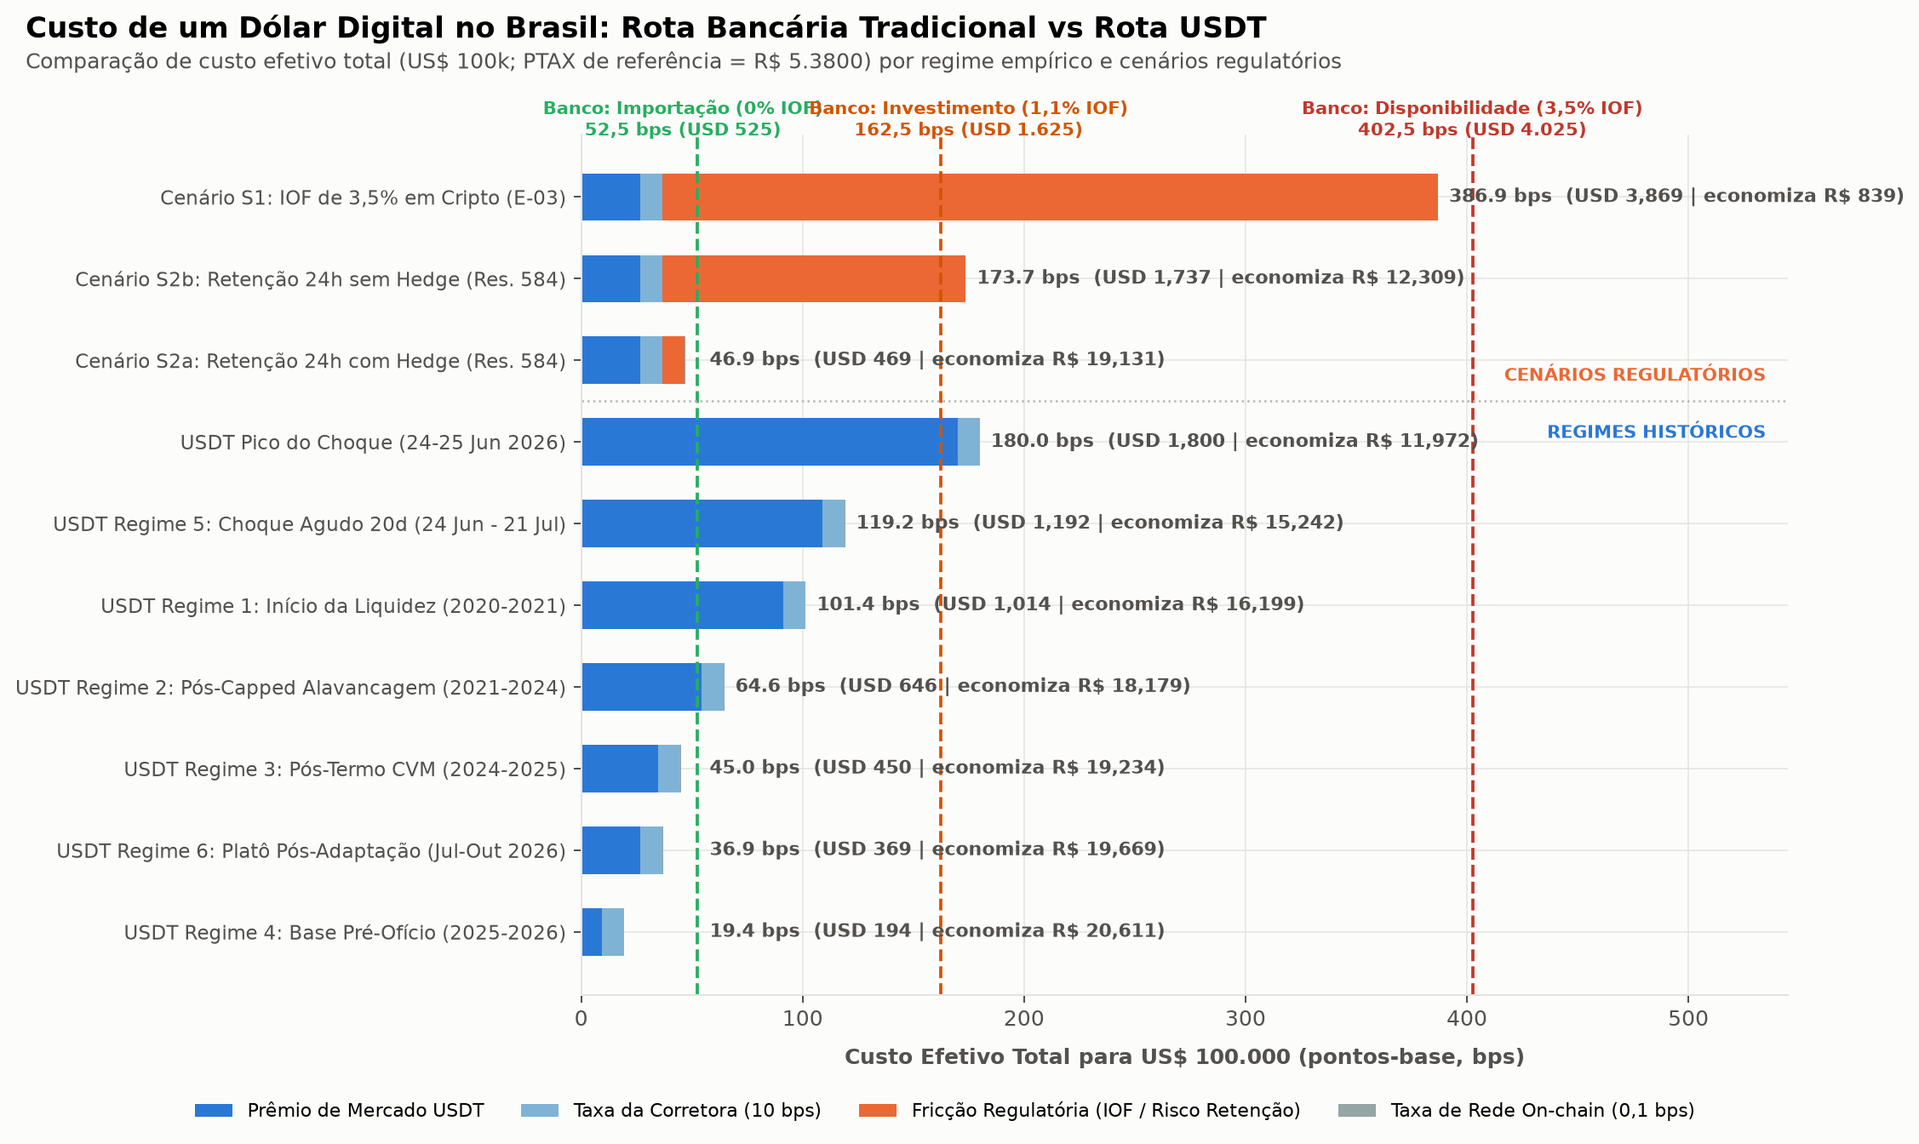
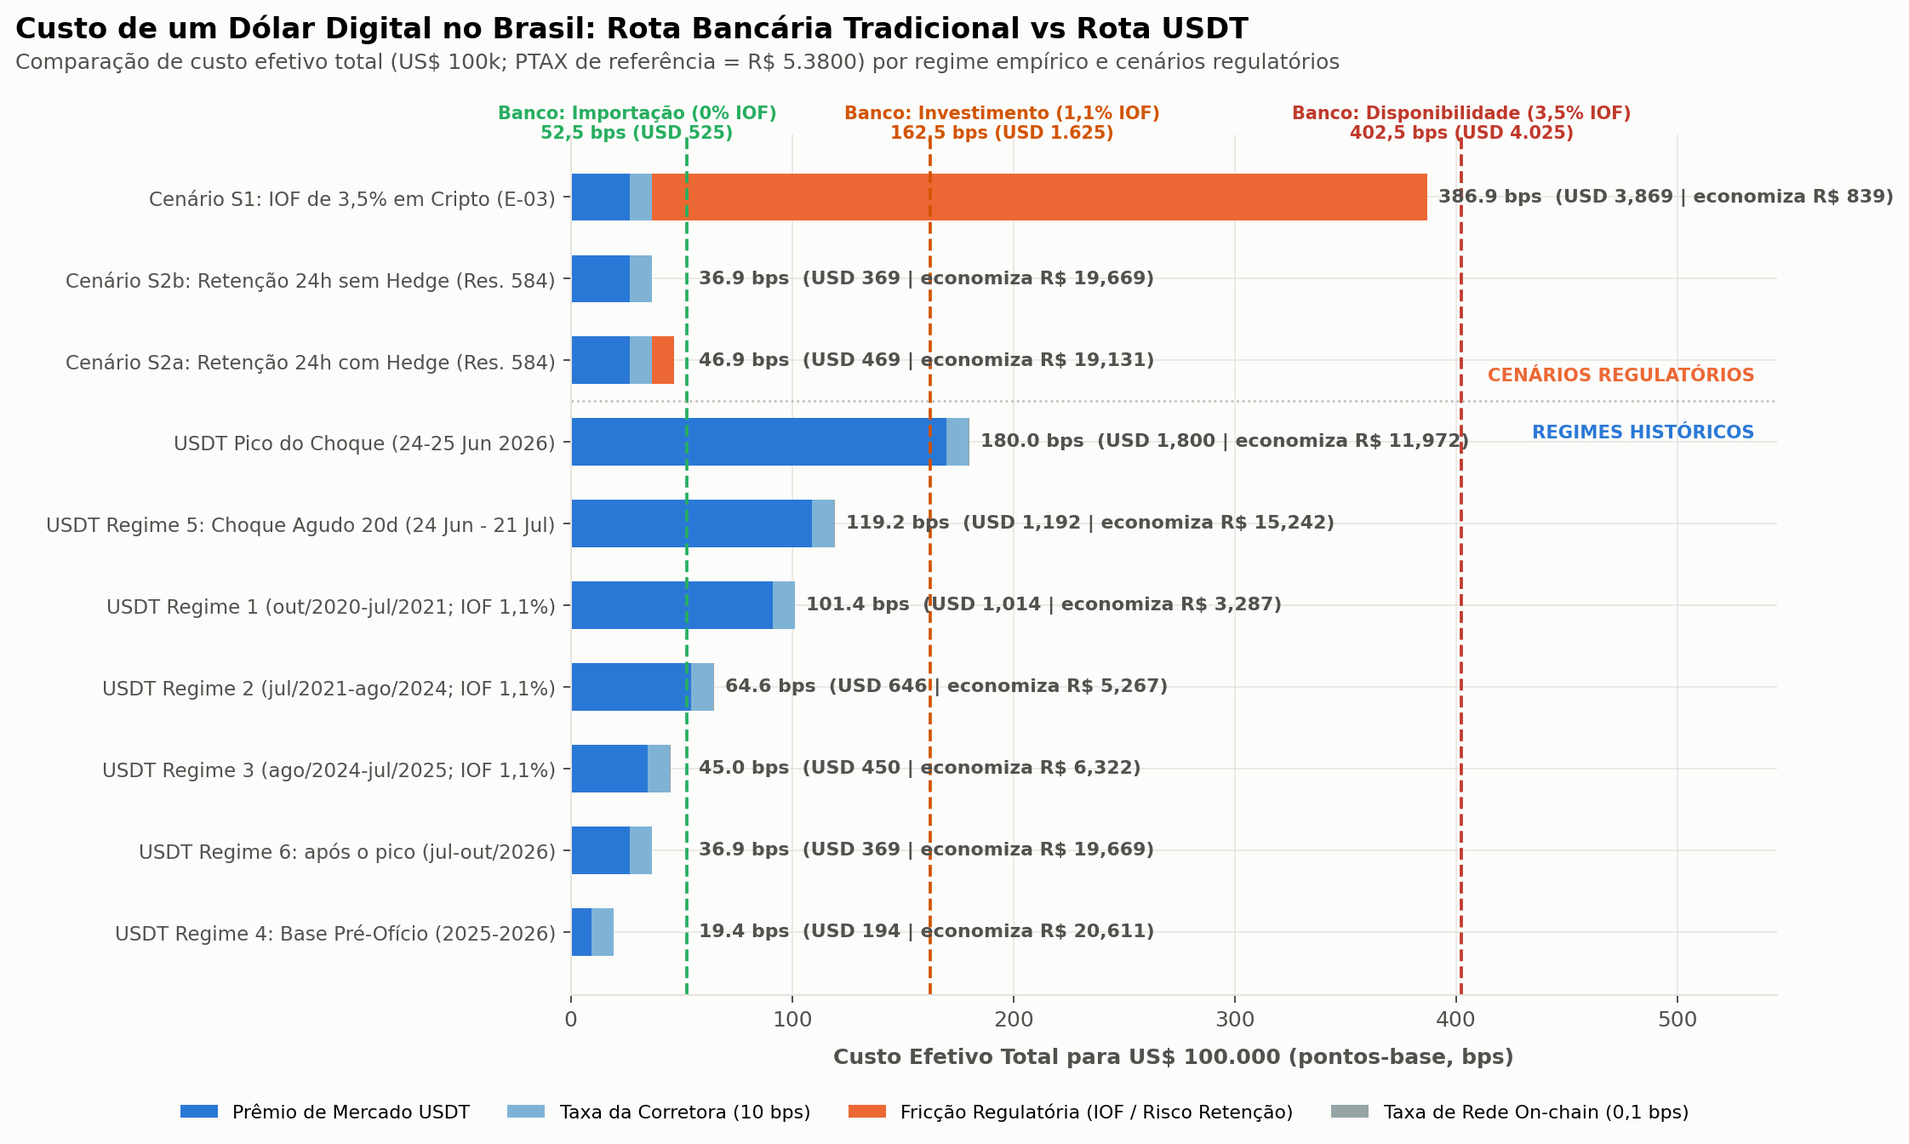
P3-01: review fixes (IOF in force by period, cost of the notice R$5,052/US$100k as headline, risk not a cost, assumptions marked); framing left for the team

diff --git a/scripts/p3_01_costs.py b/scripts/p3_01_costs.py
@@ -75,7 +75,7 @@ if (TAB / "P2-05_venues_daily.csv").exists():
 
 # 2. Build Route Comparison Table
 # Traditional Bank Benchmarks
-BANK_SPREAD = 50.0      # Corporate FX spread: 50.0 bps (median institutional from BCB Ranking VET, R-01)
+BANK_SPREAD = 50.0      # ASSUMPTION: corporate FX spread 50 bps. Not computed: the VET data (R-01) are not downloaded
 WIRE_FEE_BPS = 2.5      # SWIFT Outbound Wire: US$ 25 flat on US$ 100k = 2.5 bps
 
 # Binance VIP0 fees: 10 bps trading fee; TRC20/TON withdrawal 1 USDT = 0.1 bps on US$ 100k
@@ -89,7 +89,10 @@ bank_avail_total_bps = BANK_SPREAD + WIRE_FEE_BPS + 350.0  # 402.5 bps
 bank_avail_cost_brl = (bank_avail_total_bps / 10_000.0) * NOTIONAL_USD * ptax_rate
 
 def add_route(route_id, category, regime_or_scenario, is_scenario, venue,
-              premium_bps, spread_bps, wire_onchain_bps, iof_hold_bps, notes):
+              premium_bps, spread_bps, wire_onchain_bps, iof_hold_bps, notes, avail_iof_bps=350.0):
+    # avail_iof_bps: IOF on the bank availability route in force in that period (R-02): 1.1% before 23 May 2025,
+    # 3.5% after (review 2 Nov: regimes 1-3 had been compared with 3.5%)
+    bank_avail_cost_brl = ((BANK_SPREAD + WIRE_FEE_BPS + avail_iof_bps) / 10_000.0) * NOTIONAL_USD * ptax_rate
     total_bps = premium_bps + spread_bps + wire_onchain_bps + iof_hold_bps
     total_pct = total_bps / 100.0
     cost_usd = (total_bps / 10_000.0) * NOTIONAL_USD
@@ -109,6 +112,7 @@ def add_route(route_id, category, regime_or_scenario, is_scenario, venue,
         "total_pct": round(total_pct, 3),
         "cost_usd_per_100k": round(cost_usd, 2),
         "cost_brl_per_100k": round(cost_brl, 2),
+        "bank_avail_iof_in_force_bps": avail_iof_bps,
         "savings_vs_bank_avail_brl": round(savings_vs_bank_avail_brl, 2),
         "notes": notes,
     })
@@ -134,17 +138,20 @@ add_route(
 add_route(
     "USDT_REGIME_1", "USDT Route (Historical)", "Regime 1: Oct 2020 - Jul 2021", False, "Binance (VIP0)",
     regime_means[1], BINANCE_FEE_BPS, ONCHAIN_FEE_BPS, 0.0,
-    "Early liquidity regime (Bai-Perron break 1; F-011); on-chain fee 1 USDT flat (R-04)"
+    "Regime 1 (F-011); bank comparison at 1.1% IOF (R-02); on-chain fee 1 USDT flat (R-04)",
+    avail_iof_bps=110.0
 )
 add_route(
     "USDT_REGIME_2", "USDT Route (Historical)", "Regime 2: Jul 2021 - Aug 2024", False, "Binance (VIP0)",
     regime_means[2], BINANCE_FEE_BPS, ONCHAIN_FEE_BPS, 0.0,
-    "Post-leverage cap & Capitual/Pix transition (M-01, E-07, F-011)"
+    "Regime 2 (F-011); bank comparison at 1.1% IOF (R-02)",
+    avail_iof_bps=110.0
 )
 add_route(
     "USDT_REGIME_3", "USDT Route (Historical)", "Regime 3: Aug 2024 - Jul 2025", False, "Binance (VIP0)",
     regime_means[3], BINANCE_FEE_BPS, ONCHAIN_FEE_BPS, 0.0,
-    "Post-CVM Termo de Compromisso (M-02, F-011); expanding domestic competition"
+    "Regime 3 (F-011); bank comparison at 1.1% IOF, in force for ~9.5 of its 11 months (3.5% from 23 May 2025)",
+    avail_iof_bps=110.0
 )
 add_route(
     "USDT_REGIME_4", "USDT Route (Historical)", "Regime 4: Jul 2025 - Jun 2026 (Pre-Notice Baseline)", False, "Binance (VIP0)",
@@ -162,9 +169,9 @@ add_route(
     "Acute 48-hour peak (Binance 155.4 bps on 24 Jun, 184.4 bps on 25 Jun; F-009, P2-05)"
 )
 add_route(
-    "USDT_REGIME_6", "USDT Route (Historical)", "Regime 6: 22 Jul - Oct 2026 (Post-Adaptation Plateau)", False, "Binance (VIP0)",
+    "USDT_REGIME_6", "USDT Route (Historical)", "Regime 6: 22 Jul - Oct 2026 (after the spike)", False, "Binance (VIP0)",
     regime_means[6], BINANCE_FEE_BPS, ONCHAIN_FEE_BPS, 0.0,
-    "New equilibrium after Foxbit-NovaDAX migration (M-04, F-008, F-011); 26.8 bps premium"
+    "After the spike (F-011); level not distinguishable from ordinary drift (F-022)"
 )
 
 # Domestic Onshore Venues in Regime 6 (Foxbit and Mercado Bitcoin VIP institutional tiers)
@@ -188,15 +195,30 @@ add_route(
 add_route(
     "SCENARIO_S2A_HOLD_HEDGED", "Policy Scenario", "Scenario S2a: 24h Hold Hedged (Res. 584/2026)", True, "Binance (VIP0)",
     regime_means[6], BINANCE_FEE_BPS, ONCHAIN_FEE_BPS, 10.0,
-    "[Scenario] Res. BCB 584/2026 24h hold hedged via B3 USD futures/perps (~10 bps funding & margin cost; R-07)"
+    "[Scenario] Res. BCB 584/2026 (R-07) 24h hold, hedged; hedge cost 10 bps is an ASSUMPTION without a source"
 )
+# Unhedged 24h hold: exposure, not a cost (expected cost ~0). 95% 1-day PTAX move from our data, 2025-26 (review 2 Nov)
+_r = np.log(p1_02["ptax_sell_brl_per_usd"]).diff().loc["2025-01-01":] * 1e4
+hold_risk_bps = float(1.645 * _r.std())
 add_route(
     "SCENARIO_S2B_HOLD_UNHEDGED", "Policy Scenario", "Scenario S2b: 24h Hold Unhedged (Res. 584/2026)", True, "Binance (VIP0)",
-    regime_means[6], BINANCE_FEE_BPS, ONCHAIN_FEE_BPS, 136.8,
-    "[Scenario] Res. BCB 584/2026 24h hold unhedged; 95% 1-day absolute PTAX VaR risk (136.8 bps; R-07)"
+    regime_means[6], BINANCE_FEE_BPS, ONCHAIN_FEE_BPS, 0.0,
+    f"[Scenario] Res. BCB 584/2026 (R-07) 24h hold, unhedged: no expected cost, but a 95% 1-day exchange-rate risk of "
+    f"{hold_risk_bps:.0f} bps (1.645 x sd of daily PTAX changes, 2025-26; P1-02). Risk is not added to the cost."
 )
+# Cost of the notice for a buyer of US$ 100k in USDT (the project's question): premium change, F-016 / F-022
+_e = pd.read_csv(TAB / "P2-03_event_table.csv")
+spike_bps = float(_e[(_e.event_id == "E-05") & (_e.eval_date_kind == "effective")].diff_bps.iloc[0])
+_d = p1_02["premium_bps"]; _i = _d.index.get_loc(pd.Timestamp("2026-06-23"))
+after_bps = float(_d.iloc[_i + 21:].mean() - _d.iloc[_i - 20:_i].mean())
+for rid, lab, v, note in [("NOTICE_COST_SPIKE", "Cost of the notice: spike (24 Jun - 21 Jul 2026)", spike_bps,
+                           "Premium change after E-05, [+1,+20] vs [-20,-1] (F-016); placebo p ~ 0.001"),
+                          ("NOTICE_COST_AFTER", "Cost of the notice: after the spike (22 Jul - 30 Oct 2026)", after_bps,
+                           "[+21,end] vs [-20,-1]; NOT distinguishable from ordinary drift (placebo p = 0.24, F-022)")]:
+    add_route(rid, "Cost of the notice", lab, False, "Binance (VIP0)", v, 0.0, 0.0, 0.0, note)
 
 df_routes = pd.DataFrame(rows)
+df_routes.loc[df_routes.category == "Cost of the notice", "savings_vs_bank_avail_brl"] = np.nan  # not a route
 TAB.mkdir(parents=True, exist_ok=True)
 df_routes.to_csv(TAB / "P3-01_route_costs.csv", index=False)
 print(f"Wrote {len(df_routes)} route cost rows to {TAB / 'P3-01_route_costs.csv'}")
@@ -244,10 +266,10 @@ plot_items = [
     ("SCENARIO_S2A_HOLD_HEDGED", "Cenário S2a: Retenção 24h com Hedge (Res. 584)", True),
     ("USDT_PEAK", "USDT Pico do Choque (24-25 Jun 2026)", False),
     ("USDT_REGIME_5", "USDT Regime 5: Choque Agudo 20d (24 Jun - 21 Jul)", False),
-    ("USDT_REGIME_1", "USDT Regime 1: Início da Liquidez (2020-2021)", False),
-    ("USDT_REGIME_2", "USDT Regime 2: Pós-Capped Alavancagem (2021-2024)", False),
-    ("USDT_REGIME_3", "USDT Regime 3: Pós-Termo CVM (2024-2025)", False),
-    ("USDT_REGIME_6", "USDT Regime 6: Platô Pós-Adaptação (Jul-Out 2026)", False),
+    ("USDT_REGIME_1", "USDT Regime 1 (out/2020-jul/2021; IOF 1,1%)", False),
+    ("USDT_REGIME_2", "USDT Regime 2 (jul/2021-ago/2024; IOF 1,1%)", False),
+    ("USDT_REGIME_3", "USDT Regime 3 (ago/2024-jul/2025; IOF 1,1%)", False),
+    ("USDT_REGIME_6", "USDT Regime 6: após o pico (jul-out/2026)", False),
     ("USDT_REGIME_4", "USDT Regime 4: Base Pré-Ofício (2025-2026)", False),
 ]
 
@@ -305,11 +327,11 @@ for i, (tot, r_id) in enumerate(zip(totals, [it[0] for it in plot_items])):
 
 # Reference vertical lines for Traditional Bank Routes
 ax.axvline(52.5, color="#27ae60", linestyle="--", linewidth=1.5, zorder=2)
-ax.text(46.0, -0.68, "Banco: Importação (0% IOF)\n52,5 bps (USD 525)", color="#27ae60",
+ax.text(30.0, -0.68, "Banco: Importação (0% IOF)\n52,5 bps (USD 525)", color="#27ae60",
         fontsize=8.3, fontweight="bold", va="bottom", ha="center")
 
 ax.axvline(162.5, color="#d35400", linestyle="--", linewidth=1.5, zorder=2)
-ax.text(175.0, -0.68, "Banco: Investimento (1,1% IOF)\n162,5 bps (USD 1.625)", color="#d35400",
+ax.text(195.0, -0.68, "Banco: Investimento (1,1% IOF)\n162,5 bps (USD 1.625)", color="#d35400",
         fontsize=8.3, fontweight="bold", va="bottom", ha="center")
 
 ax.axvline(402.5, color="#c0392b", linestyle="--", linewidth=1.5, zorder=2)

diff --git a/findings/F-015-route-costs.md b/findings/F-015-route-costs.md
@@ -1,18 +1,27 @@
 ---
 id: F-015
-title: Across historical regimes USDT saved R$ 16k–20k per US$ 100k vs bank FX; the 23 Jun shock temporarily closed the gap vs import FX, while a 3.5% crypto IOF would eliminate the arbitrage advantage
-status: confirmed
+title: The 23 Jun notice cost a buyer of digital dollars about R$ 5,050 per US$ 100k during the spike (+93.9 bps); after it, +11.5 bps (R$ 620) not distinguishable from noise. Bank-route comparisons depend on IOF and on an assumed 50 bps bank spread
+status: exploratory
 task: P3-01
 date: 2026-11-01
 checked_by: -
 ---
 
 ## Claim
-For a Brazilian corporate treasurer acquiring US$ 100,000 (benchmark PTAX = R$ 5.3800), the digital dollar route (USDT via Binance, Foxbit, or Mercado Bitcoin) cost 19.4 to 101.4 bps all-in across pre-notice historical regimes, delivering R$ 16,199 to R$ 20,611 in net savings compared to traditional bank availability transfers (3.5% IOF, 402.5 bps).
+**What the notice cost (the project's question).** For someone buying US$ 100,000 in USDT on Binance (PTAX R$ 5.38):
+- during the spike, 24 Jun – 21 Jul 2026, the premium was 93.9 bps higher, an extra
+  **US$ 939 ≈ R$ 5,052** (F-016; placebo p ≈ 0.001);
+- after it, +11.5 bps (≈ R$ 621), which is not distinguishable from ordinary
+  drift (F-022).
 
-During the acute 20-day spike following the 23 Jun 2026 supervisory notice (Regime 5), the USDT route cost jumped to 119.2 bps (peaking at 180.0 bps on 24–25 Jun), surpassing the traditional 0% IOF commercial import route (52.5 bps) and briefly 1.1% investment remittances (162.5 bps), but retaining a R$ 15,242 savings margin over bank availability.
-
-In policy simulations, a proposed 3.5% crypto IOF (Scenario S1) raises USDT route costs to 386.9 bps, virtually evaporating the arbitrage advantage (reducing savings from R$ 19,669 down to R$ 839), while a 24-hour precautionary hold (Res. BCB 584/2026, Scenario S2) adds 10.0 bps if hedged (total 46.9 bps, remaining cheaper than 0% IOF bank FX) or 136.8 bps in unhedged 95% 1-day market risk (total 173.7 bps).
+**Context: bank routes.** The table also sets the USDT route (premium + 10 bps fee) beside bank FX routes:
+- **Bank FX routes:** 50 bps spread (an assumption; the VET data are not downloaded) + wire + the IOF in force.
+- **The IOF in force:** 1.1% on transfers to one's own account abroad before 23 May 2025, 3.5% after (R-02).
+- **The USDT route was cheaper in every period:** by R$ 3.3k–6.3k per US$ 100k in 2020 – mid-2025 (vs 1.1% IOF), and by
+  about R$ 20k after May 2025 (vs 3.5%).
+- **Not verified:** whether the USDT route is a lawful substitute for an FX transfer, and its tax treatment. The 23 Jun
+  notice is reported to target exactly this use (E-05). So these differences describe price gaps; they are not savings
+  to recommend (`prompt.md` §10). Whether the bank comparison appears in the deck at all is a team decision.
 
 ## Evidence
 Benchmark transaction: institutional acquisition of US$ 100,000; reference PTAX = R$ 5.3800 (base cost = R$ 538,000). Commercial bank spread: 50.0 bps (median corporate institutional spread in BCB Ranking do VET, R-01); SWIFT wire fee: US$ 25.00 flat (2.5 bps). Exchange trading fee: 10.0 bps (Binance VIP0 taker fee, R-04); on-chain transfer: 0.1 bps (1 USDT flat on TRC-20/TON). Domestic institutional VIP tiers: 6.0–8.0 bps taker, 2 USDT withdrawal (Foxbit R-05, Mercado Bitcoin R-06).
@@ -35,13 +44,12 @@ Benchmark transaction: institutional acquisition of US$ 100,000; reference PTAX 
 | **Scenario S2a: 24h Hold Hedged (Res. 584/2026)** | Policy Scenario | 26.8 | 10.0 | 10.0 | 0.1 | 46.9 | $469.00 | R$ 2,523.22 | R$ 19,131.28 |
 | **Scenario S2b: 24h Hold Unhedged (Res. 584/2026)** | Policy Scenario | 26.8 | 10.0 | 136.8 | 0.1 | 173.7 | $1,737.00 | R$ 9,345.06 | R$ 12,309.44 |
 
-### Economic Mechanism: Limits to Arbitrage and Regulatory Shadow Prices
-1. **The 350 bps IOF Umbrella**: Under Decreto 12.466/2025 and STF ADC 96 (R-02, R-03), corporate availability transfers incur a 3.5% IOF surcharge. This statutory wedge provides a 350 bps economic umbrella: any digital dollar route costing under 402.5 bps generates positive financial arbitrage for outbound capital.
-2. **Structural Channel Disruption**: In pre-notice Regime 4, mature order-book competition compressed the USDT premium to 9.3 bps, making digital dollars 33.1 bps cheaper even than 0% IOF commercial import FX (19.4 vs 52.5 bps). When the 23 Jun 2026 supervisory notice (E-05) constrained domestic fund crypto import rails, the sudden local supply restriction forced the premium to 109.1 bps (peaking at 169.9 bps). This temporarily closed the door against traditional commercial bank trade finance (52.5 bps), but USDT remained cheaper than general bank availability transfers (402.5 bps).
-3. **Liquidity Adaptation**: The entry into force of Res. BCB 580/2026 and the 7 Jul 2026 Foxbit–NovaDAX migration (M-04) catalyzed domestic order-book volume (Foxbit volume surged 6×, F-008), restoring local supply and settling the post-adaptation plateau at 26.8 bps (Regime 6, total cost 36.9 bps).
-4. **Policy Counterfactuals**:
-   - Imposing a 3.5% IOF on crypto purchases (Scenario S1) raises total costs to 386.9 bps, destroying 95.7% of corporate savings (shrinking from R$ 19,669 down to R$ 839).
-   - Under Res. BCB 584/2026 (Scenario S2), institutional treasurers who hedge the mandatory 24h hold incur only ~10 bps in B3 futures/perp carrying cost (46.9 bps total), preserving competitive efficiency against bank trade finance (52.5 bps). Unhedged treasurers absorb 136.8 bps of 1-day exchange-rate risk (173.7 bps total), eliminating cost competitiveness against 1.1% investment remittances.
+### Scenarios (labelled as such)
+- **S1, 3.5% IOF on crypto purchases (E-03, unenacted):** USDT route ≈ 387 bps, about the same as the 3.5% bank route.
+- **S2, 24 h hold (Res. BCB 584/2026, from 1 Jan 2027):**
+  - hedged: + 10 bps (assumed hedge cost, no source);
+  - unhedged: no expected cost, but a 95% one-day exchange-rate risk of about 130 bps (1.645 × sd of daily PTAX changes,
+    2025–26). A risk, not added to the cost.
 
 ### Reproduction
 ```powershell
@@ -60,5 +68,6 @@ Outputs:
 Slide 9: "Custo de um Dólar Digital no Brasil: Rota Bancária Tradicional vs USDT" (Headline Money Result).
 
 ## History
+- 2026-11-02, agent for Renzo (review fixes, on Felipe's behalf, agreed by Renzo): regimes 1–3 compared at the 1.1% IOF then in force (savings R$ 3.3–6.3k, were R$ 16–20k); "cost of the notice" rows added and made the headline; unhedged-hold risk no longer added as a cost; bank spread and hedge cost marked as assumptions; adaptation wording removed; status confirmed → exploratory
 - 2026-11-02, Renzo (review, P3-01): arithmetic correct, but regimes 1–3 (2020 – May 2025) are compared with 3.5% IOF although R-02 gives 1.1% then (savings ~5× too high for those regimes); the IOF-savings framing conflicts with prompt.md §10; bank spread, hedge cost and VaR are unsourced constants (VaR is a risk, not a cost). Suggest status exploratory until fixed (tasks/P3-01 → Handoff)
 - 2026-11-01, Felipe: Initialized and confirmed finding following completion and verification of `scripts/p3_01_costs.py`, `results/tables/P3-01_route_costs.csv`, and `results/figures/P3-01_route_costs.png`.

diff --git a/STATUS.md b/STATUS.md
@@ -97,7 +97,7 @@ Plans: [`docs/02-dolar-cripto.md`](docs/02-dolar-cripto.md) (primary) ·
 
 | ID | Task | Status | Owner | Working now | Steps | Criteria | Due | Depends |
 |---|---|---|---|---|---|---|---|---|
-| [P3-01](tasks/P3-01-money-layer.md) | Cost of a digital dollar: bank route vs USDT route, per regime | 👀 review | Economist | Renzo (applying review fixes) | 5/5 | 4/4 | 2026-11-03 | P2-03, P2-04 |
+| [P3-01](tasks/P3-01-money-layer.md) | Cost of a digital dollar: bank route vs USDT route, per regime | 👀 review | Economist | - | 5/5 | 4/4 | 2026-11-03 | P2-03, P2-04 |
 | [P3-02](tasks/P3-02-btc-heterogeneity.md) | Did the 23 Jun notice also move the bitcoin premium? | ✅ done | CS 1 | - | 4/4 | 3/3 | 2026-11-03 | P1-01, P2-03 |
 | [P3-03](tasks/P3-03-monitor.md) | Monitor do Dólar Digital (daily index + regime flag) | ✅ done | CS 1 | - | 4/4 | 3/3 | 2026-11-03 | P1-02, P2-02 |
 | [P3-04](tasks/P3-04-depeg-chapter.md) | Depeg chapter v1 (the same mechanism in dollars) | ✅ done | CS 3 | - | 4/4 | 4/4 | 2026-11-03 | P1-07 |
@@ -143,7 +143,7 @@ Plans: [`docs/02-dolar-cripto.md`](docs/02-dolar-cripto.md) (primary) ·
 | [F-012](findings/F-012-stablecoin-depeg-events.md) | Automatic screening identifies 29 USD-confirmed independent depeg events across 7 stablecoin pairs | 🔍 exploratory | P1-07 | Renzo, Nattan |
 | [F-013](findings/F-013-depeg-count-v2.md) | After the review fixes, the depeg screen finds 11 falls below $1 (9 without a likely delisting), short of the 12 the chapter needs for recovery curves | ✔ confirmed | P1-07 | Nattan |
 | [F-014](findings/F-014-monitor-backtest.md) | A real-time alarm calibrated on 2020–2025 flags the 24 Jun 2026 jump on the same day, with fewer false alarms than a simple rule | ✔ confirmed | P3-03 | Jonathan |
-| [F-015](findings/F-015-route-costs.md) | Across historical regimes USDT saved R$ 16k–20k per US$ 100k vs bank FX; the 23 Jun shock temporarily closed the gap vs import FX, while a 3.5% crypto IOF would eliminate the arbitrage advantage | ✔ confirmed | P3-01 | - |
+| [F-015](findings/F-015-route-costs.md) | The 23 Jun notice cost a buyer of digital dollars about R$ 5,050 per US$ 100k during the spike (+93.9 bps); after it, +11.5 bps (R$ 620) not distinguishable from noise. Bank-route comparisons depend on IOF and on an assumed 50 bps bank spread | 🔍 exploratory | P3-01 | - |
 | [F-016](findings/F-016-event-studies-placebos.md) | Of 13 dated Brazilian events, only the 23 Jun 2026 BCB notice moved the premium (+93.9 bps; beyond all 1,073 placebo dates, p ≈ 0.001) | 🔍 exploratory | P2-03 | - |
 | [F-017](findings/F-017-synthetic-control.md) | Synthetic control estimates a +109 bps acute treatment gap for the 23 Jun 2026 shock (Brazil ranks #1 of 6, ratio 9.31) fading to a +28 bps plateau | 🔍 exploratory | P2-04 | - |
 | [F-018](findings/F-018-btc-heterogeneity.md) | The Bitcoin premium jumped by the same +93.8 bps on 24 Jun 2026, as triangular arbitrage on Binance requires; the test cannot tell a stablecoin-specific shock from a crypto-wide one | 🔍 exploratory | P3-02 | - |

diff --git a/tasks/P3-01-money-layer.md b/tasks/P3-01-money-layer.md
@@ -4,7 +4,7 @@ title: Cost of a digital dollar: bank route vs USDT route, per regime
 phase: P3
 status: review
 owner: Economist
-working: Renzo (applying review fixes)
+working: -
 due: 2026-11-03
 depends: P2-03, P2-04
 ---
@@ -83,10 +83,16 @@ Turn the premium into money for a Brazilian corporate treasurer: what US$ 100,00
   4. **Wording.** "Adaptation plateau", and "Res. BCB 580 and Foxbit–NovaDAX catalyzed … restoring local supply", have no
      evidence (P2-02: the fade is unexplained; Res. 580 has no opened source). Say "after the spike".
   5. **F-015 status.** It is `confirmed` with no checker; suggest `exploratory` until 1–4 are done.
-- **Next step:** Felipe (and the team, for the framing in 2) decides; then fix `scripts/p3_01_costs.py` and F-015.
+- **Fixes applied (2 Nov, agent for Renzo, agreed by Renzo):** 1 IOF by period (`bank_avail_iof_in_force_bps`); 3 risk not
+  added as a cost, constants marked ASSUMPTION; 4 neutral labels; 5 F-015 → exploratory; new rows `NOTICE_COST_SPIKE`
+  (93.9 bps ≈ R$ 5,052) and `NOTICE_COST_AFTER` (11.5 bps, not significant), made F-015's headline.
+- **Still open (team / Felipe):** 2, the framing. Should the bank comparison and the "economiza R$" labels in the figure
+  stay in the deck at all? Also: source the 50 bps bank spread (download VET data) and the hedge cost, or drop them.
+  Status stays review until the framing is decided.
 - **How to resume:** `python scripts/p3_01_costs.py`.
 
 ## Log
+- 2026-11-02, agent for Renzo: review fixes 1, 3, 4, 5 applied; framing (2) left for the team; status stays review.
 - 2026-11-02, agent for Renzo: Renzo applies the review fixes (agreed by Renzo; on behalf of Felipe).
 - 2026-11-02, agent for Renzo: review done (Handoff): arithmetic right; IOF anachronism for 2020–May 2025, framing, unsourced constants.
 - 2026-11-02, agent for Renzo: Renzo takes the review.
